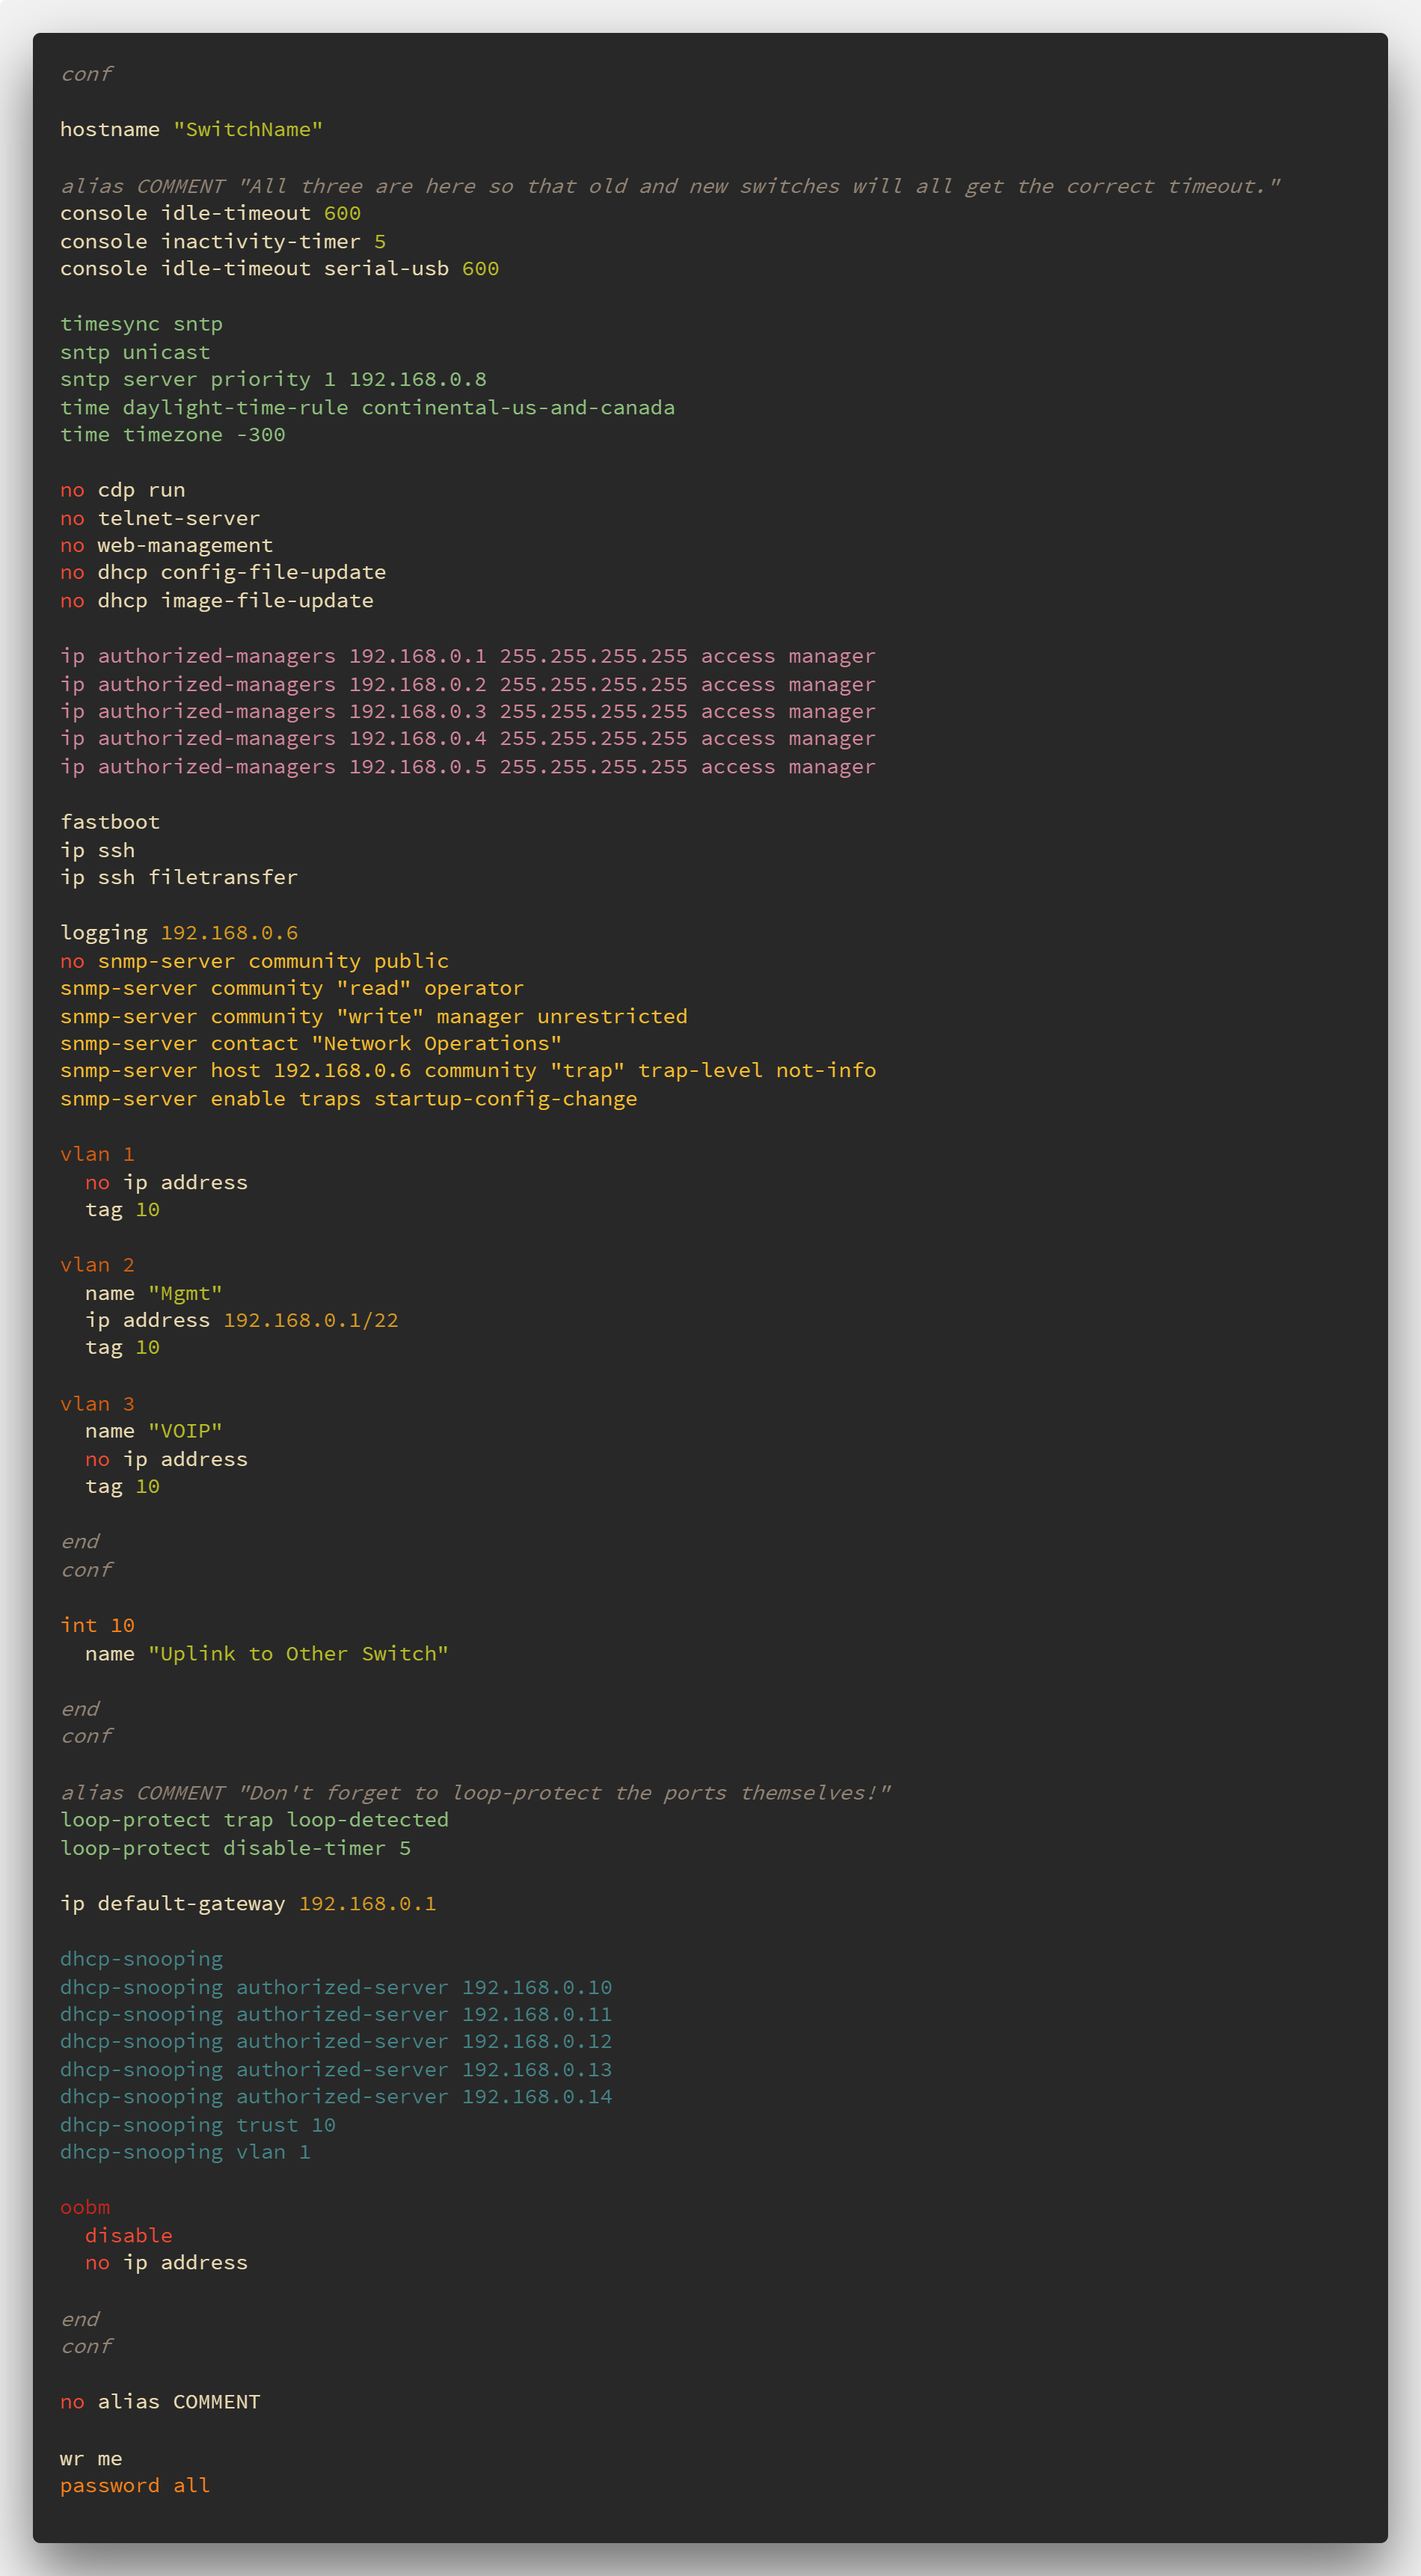
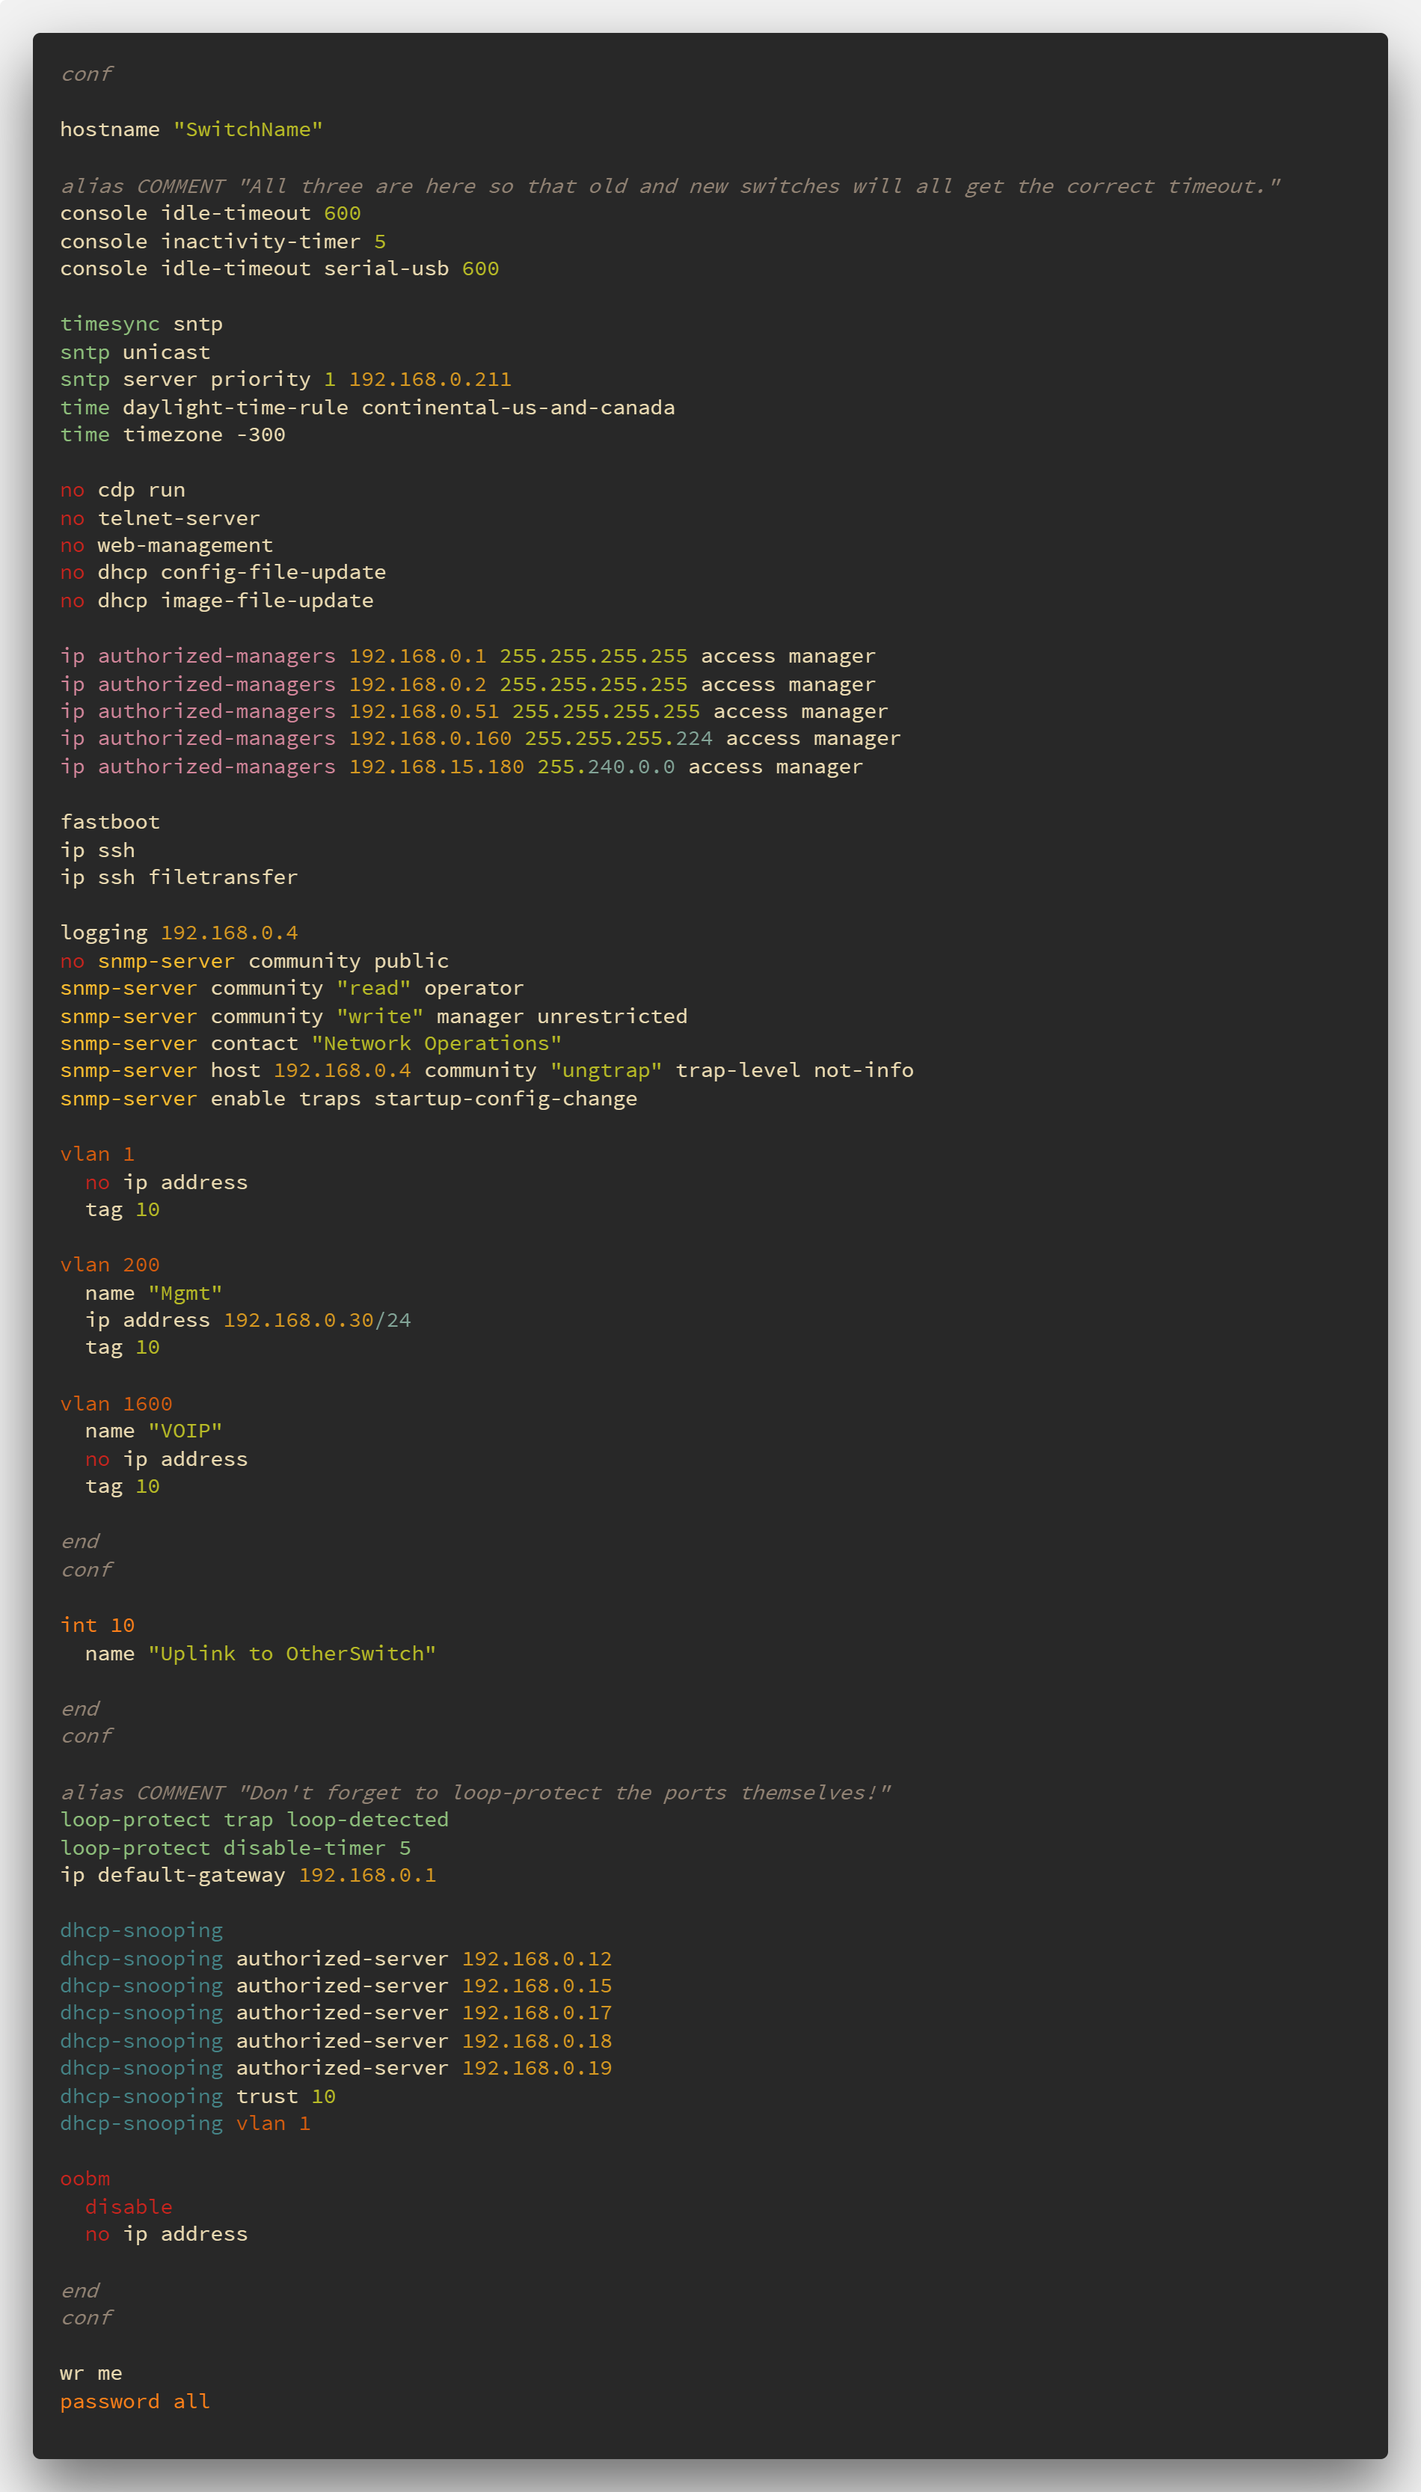
Updated screenshot. Corrected alias COMMENT coloring. Updated readme. Version bump.

diff --git a/README.md b/README.md
@@ -11,6 +11,7 @@ Visual Studio Code syntax highlighting for HP/Aruba Procurve switch configuratio
 * Interface
 * IP Authorized Managers
 * IPv4 Addresses with/without subnet
+* IPv4 Subnet Masks with differentiated interesting octets
 * Loop Protection
 * No and Disable
 * OOBM
